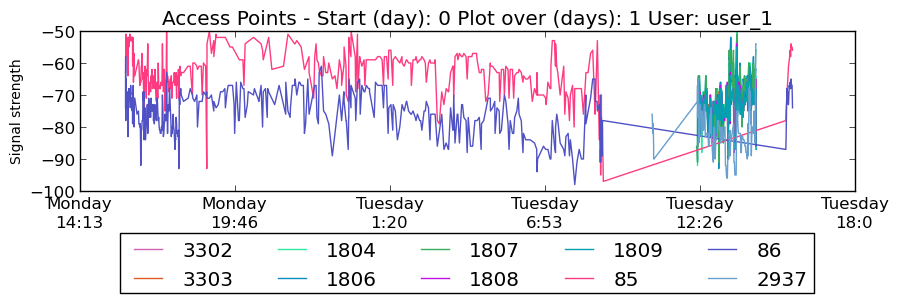
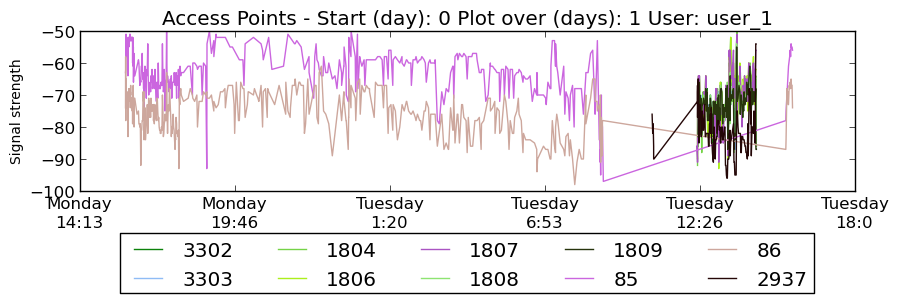
Cleaned up bssid_time plotting script

diff --git a/graphics/bssid_time.py b/graphics/bssid_time.py
@@ -47,15 +47,17 @@ def select_needed(time_list, text_list, pos):
     return time_l, text_l
     
 
-def plot_for_bssid(color_to_use, data_to_plot, username, start_day, days_to_consider, time_list):
-    
-    plt.gcf().set_size_inches(10,2)
-    
+def plot_for_bssid(color_to_use, data_to_plot, username, start_day, days_to_consider):#, time_list):
+    """color_to_use - dict with bssid:color, data_to_plot - dict with bssd: ([list_of_time_when_appears],[list_of_strength_at_time])"""
+    """username - user for which plotting is done (filename), start_day - day for which plotting starts, days_to_consider - time interval for plot"""
+    #"""(NOT USED CURRENTLY) time_list - list with unique time moments found in fingerprints over the days_to_consider starting on start_day interval"""
+
+    """ initial settings for plotting"""
+    plt.gcf().set_size_inches(10,2)    
     fig = plt.figure(1)
     ax = fig.add_subplot(111)
-    
-    first = -1
-    
+        
+    """ data editing and plotting for each bssid over the given time"""
     for key in data_to_plot.iterkeys():
         x_time_list = data_to_plot[key][0]
         y_rssi_list = data_to_plot[key][1]
@@ -66,7 +68,7 @@ def plot_for_bssid(color_to_use, data_to_plot, username, start_day, days_to_cons
         
         time_rssi_list = []
         for idx, val in enumerate(x_time_list):
-            time_rssi_list.append((x_time_list[idx],y_rssi_list[idx]))
+            time_rssi_list.append((val,y_rssi_list[idx]))
         
         # need to sort them
         time_rssi_list = sorted(time_rssi_list, key=lambda x: x[0])
@@ -76,112 +78,71 @@ def plot_for_bssid(color_to_use, data_to_plot, username, start_day, days_to_cons
         for elem in time_rssi_list:
             x_sorted_list.append(elem[0])
             y_sorted_list.append(elem[1])
-        
-        if first != -1:
-            if x_sorted_list[0] < first:
-                first = x_sorted_list[0]
-        else:
-            first = x_sorted_list[0]
-        ##widthscale = len(x_sorted_list)/4
-        #plt.gcf().set_size_inches(10,2) 
-        #figsize = (8*widthscale,2) # fig size in inches (width,height)
-        #figure = plt.figure(figsize = figsize) # set the figsize
-        
-        # get hours and where to plot for time
-        # values_list, text_list = get_xticks_info(x_sorted_list)
-        
+                
         ax.plot(x_sorted_list, y_sorted_list, '-', color=color_to_use[key], label=key)
 
     # change labels
     locs, labels = plt.xticks()
     ticks_list = ax.xaxis.get_majorticklocs()
-    new_labels = get_info_on_time(ticks_list)
-    # UNCOMMENT 2 after only if don't want to see first and last
-    #new_labels[0] = ""
-    #new_labels[len(new_labels)-1] = ""
-    plt.xticks(locs, new_labels)
+    labels = get_info_on_time(ticks_list) # new labels
+    plt.xticks(locs, labels)
+    
+    # Text over plot (title, axes)
     plt.title("Access Points - Start (day): "+str(start_day)+" Plot over (days): "+str(days_to_consider)+" User: "+username)
-    plt.xlabel("Time", fontsize=10)
+    plt.xlabel("Moments over time", fontsize=10)
     plt.ylabel("Signal strength", fontsize=10)
 
     # legend
-    #plt.legend(loc=8)
     handles, labels = ax.get_legend_handles_labels()
     ax = fig.add_subplot(111)
     lgd = ax.legend(handles, labels, loc='upper center', bbox_to_anchor=(0.5,-0.2), ncol=5)
     # end legend
     
     fig.savefig(username+"_plot.png", bbox_extra_artists=(lgd,), bbox_inches='tight')
-    #plt.savefig(username+"_plot.png")
     plt.show()
 
-def plot_bssid_over_time(user_file, start_day, days_to_consider, bssid_occurences, colors, time_list):
-    username = user_file
-    
+def plot_bssid_over_time(user_file, start_day, days_to_consider, bssid_occurences, colors):#, time_list):
+    username = user_file    
     data_to_plot = dict()
     
-    #print(bssid_occurences)
-    
     for key in bssid_occurences.iterkeys():
-        time_list = []
+        time_ticks_list = []
         strength_list = []
         
         for x in bssid_occurences[key]:
-            time_list.append(x[0])
+            time_ticks_list.append(x[0])
             strength_list.append(x[1])
-        #print(key, time_list, strength_list)
     
         # each bssid will have 2 list (time list and list with strength for bssid at that time)
-        data_to_plot[key] = (time_list, strength_list)
-    """
-    for elem in bssid_occurences_list:
-        time_list = []
-        strength_list = []
-        
-        for x in elem[1]:
-            time_list.append(x[0])
-            strength_list.append(x[1])
-        #print(key, time_list, strength_list)
-    
-        # each bssid will have 2 list (time list and list with strength for bssid at that time)
-        data_to_plot[elem[0]] = (time_list, strength_list)"""
-        
-    plot_for_bssid(colors, data_to_plot, username, start_day, days_to_consider, time_list)
+        data_to_plot[key] = (time_ticks_list, strength_list)
+                
+    plot_for_bssid(colors, data_to_plot, username, start_day, days_to_consider)#, time_list)
     
 def prepare_data_and_start_plot(user_file, start_day, days_to_consider, n_best_signal_bssids, m_most_popular_bssids):
     # get data from file
     user_data = data.retrieve_data_from_user(user_file,start_day,days_to_consider)
-    #print("Got "+user_file+" data")
     
     # get unique timestamps from data
     timestamps = data.get_unique_timestamps(user_data)
-    #print("Got "+user_file+" timestamps")
     
     # find out which are the bssids which appear most common ( first m_most_popular_bssids)
-    most_common_with_values, most_common_bssids  = data.get_most_common_bssids(user_data, m_most_popular_bssids)
+    most_common_bssids  = data.get_most_common_bssids(user_data, m_most_popular_bssids)
     
     # git fingerprints which contain only most popular bssids and get only first n_best_signal_bssids for each
     fingerprints = data.get_fingerprints(user_data, timestamps, n_best_signal_bssids, most_common_bssids)
-    print("Got "+user_file+" fingerprints")
-    
-    time_list = data.get_ordered_time_list(fingerprints)
-    #print(fingerprints)
     
     # find out bssid which appear in timestamps
     bssids = data.get_unique_bssid(fingerprints)
-    print("Got "+user_file+" bssids")
     
     # find out at which times do each bssid appears
     bssid_occurences = data.get_bssids_info_in_time(fingerprints, bssids)
-    print("Got "+user_file+" bssid related dictionary")
-    
-    #most_popular_list = data.get_most_popular(n_most_popular, bssid_occurences)
     
     # get colors for each bssid
     color_codes = data.generate_color_codes_for_bssid(bssids)
-    print("Got "+user_file+" colors")
     
+    #time_list = data.get_ordered_time_list(fingerprints)
     # plot
-    plot_bssid_over_time(user_file, start_day, days_to_consider, bssid_occurences, color_codes, time_list)
+    print("Data for user "+user_file+" retrived. Moving on to plotting...")
+    plot_bssid_over_time(user_file, start_day, days_to_consider, bssid_occurences, color_codes)#, time_list)
     
 prepare_data_and_start_plot("user_1",0,1,-1,10)

diff --git a/handlers/data.py b/handlers/data.py
@@ -118,7 +118,7 @@ def get_most_common_bssids(data, n_most_common):
         bssids = [] # just bssids
         for x in ordered_list:
             bssids.append(x[0])
-        return ordered_list, bssids
+        return bssids#,ordered_list
     else:
         bssids = [] # just bssids
         for x in ordered_list:
@@ -126,7 +126,7 @@ def get_most_common_bssids(data, n_most_common):
                 bssids.append(x[0])
             else:
                 break
-        return ordered_list[0:n_most_common], bssids
+        return bssids#,ordered_list[0:n_most_common]
      
     
             
